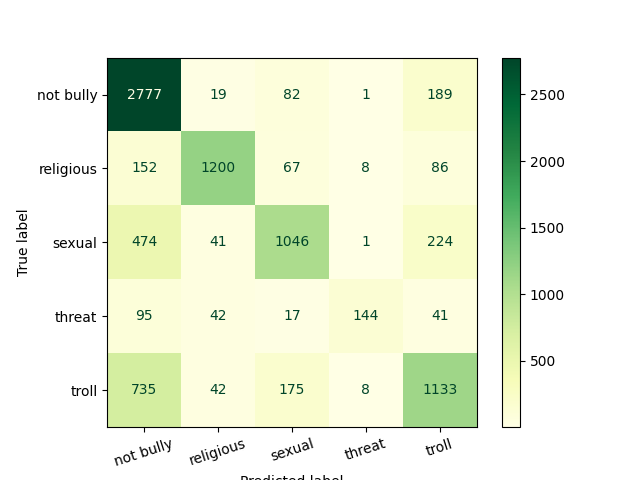
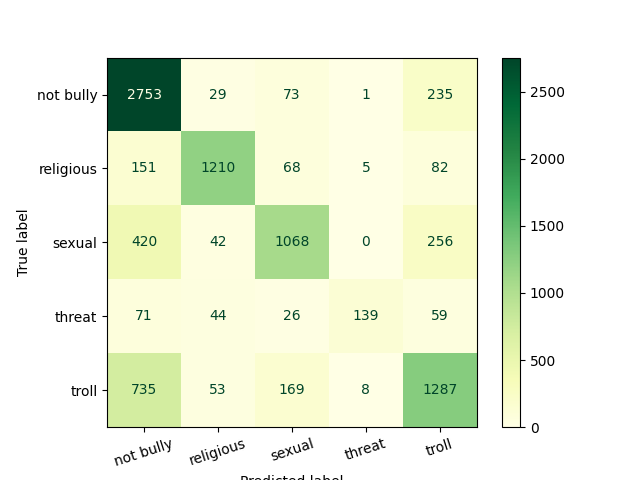
trained

diff --git a/preprocessing/preprocessing.py b/preprocessing/preprocessing.py
@@ -371,9 +371,9 @@ class PreProcessor():
 
     def read_cyberbullying_dataset(self, is_split=True):
         dataset_dir = f'{BASE_DIR}/DATASET/'
-        file = f'{dataset_dir}cyberbullying.csv'
-        # dataset = pd.read_csv(file)
-        dataset = pd.DataFrame()
+        file = f'{dataset_dir}cyberbullying/cyberbullying.csv'
+        dataset = pd.read_csv(file)
+        # dataset = pd.DataFrame()
         dataset_labeled = self.read_cyberbullying_labeled_data()
         dataset = dataset.append(dataset_labeled, ignore_index=True)
 
@@ -381,10 +381,10 @@ class PreProcessor():
 
         dataset['cleanText'] = dataset['comment']
         dataset['category'] = dataset['label']
-
+        dataset = dataset[['cleanText', 'category']]
         dataset = dataset.reset_index()
         if is_split:
-            data, data_test = train_test_split(dataset, test_size=.2, stratify=dataset.label.values)
+            data, data_test = train_test_split(dataset, test_size=.2, stratify=dataset.category.values)
 
             # Remove null
             print(f'Before removing null Train data : {len(data)}')

diff --git a/test.py b/test.py
@@ -5,6 +5,12 @@ from preprocessing.preprocessing import PreProcessor
 preprocessor = PreProcessor()
 data, data_test = preprocessor.read_cyberbullying_dataset()
 
+'''
+Before removing null Train data : 35932
+After removing null Train data : 35191
+Before removing null Test data: 8984
+After removing null Test data : 8807
+'''
 
 # import json
 # import re
